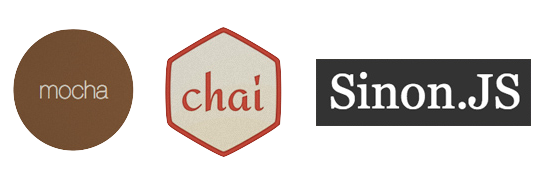
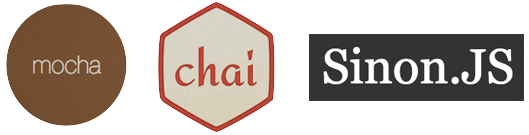
Add JWT image and line them up vertically in the middle

Changed region(s): [[0.2722, 0.0, 0.9981, 0.9778], [0.0, 0.0296, 0.242, 0.9481], [0.0605, 0.4148, 0.2117, 0.563]]

diff --git a/index.html b/index.html
@@ -349,10 +349,14 @@
 
         <section data-background="#eee">
           <h2>Client API</h2>
-          <img class="logo" src="coffeescript-logo.png">
-          <img class="logo" src="nodejs-logo.png" style="margin-left:80px">
-          <img class="logo" src="mocha-chai-sinon.png">
-          <img class="logo" src="pg-logo.png">
+          <p class="logos">
+            <img class="logo" src="coffeescript-logo.png">
+            <img class="logo" src="nodejs-logo.png">
+            <img class="logo" src="lodash-logo.png">
+            <img class="logo" src="pg-logo.png">
+            <img class="logo" src="jwt-logo.png">
+            <img class="logo" src="mocha-chai-sinon.png">
+          </p>
         </section>
 
         <section>
@@ -647,6 +651,7 @@
           <h3>Webapp</h3>
           <img class="logo" src="nodejs-logo.png">
           <img class="logo" src="babel-logo.png">
+          <img class="logo" src="moment-logo.png">
           <br>
           <img class="logo" src="lodash-logo.png">
           <img class="logo" src="sqlite-logo.gif">
@@ -659,7 +664,7 @@
 
         <section>
           <h3>API</h3>
-          <p>List the endpoints here I guess</p>
+          <p><code>GET /</code>
         </section>
 
         <section>

diff --git a/additional.css b/additional.css
@@ -44,3 +44,7 @@
   margin-right: 6px;
   border: none;
 }
+
+.reveal .logos img {
+  vertical-align: middle;
+}
